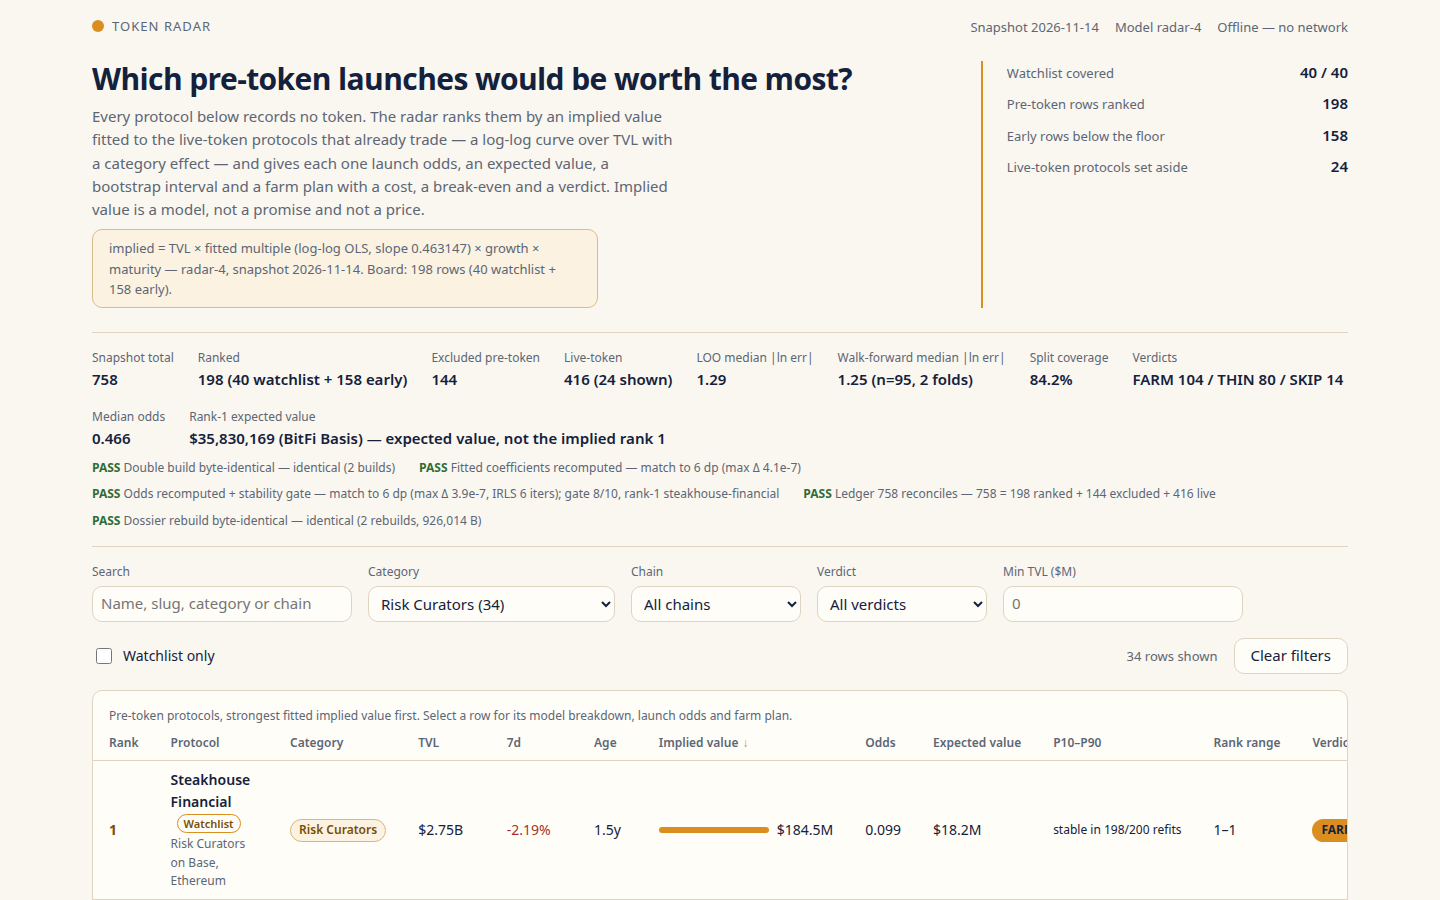
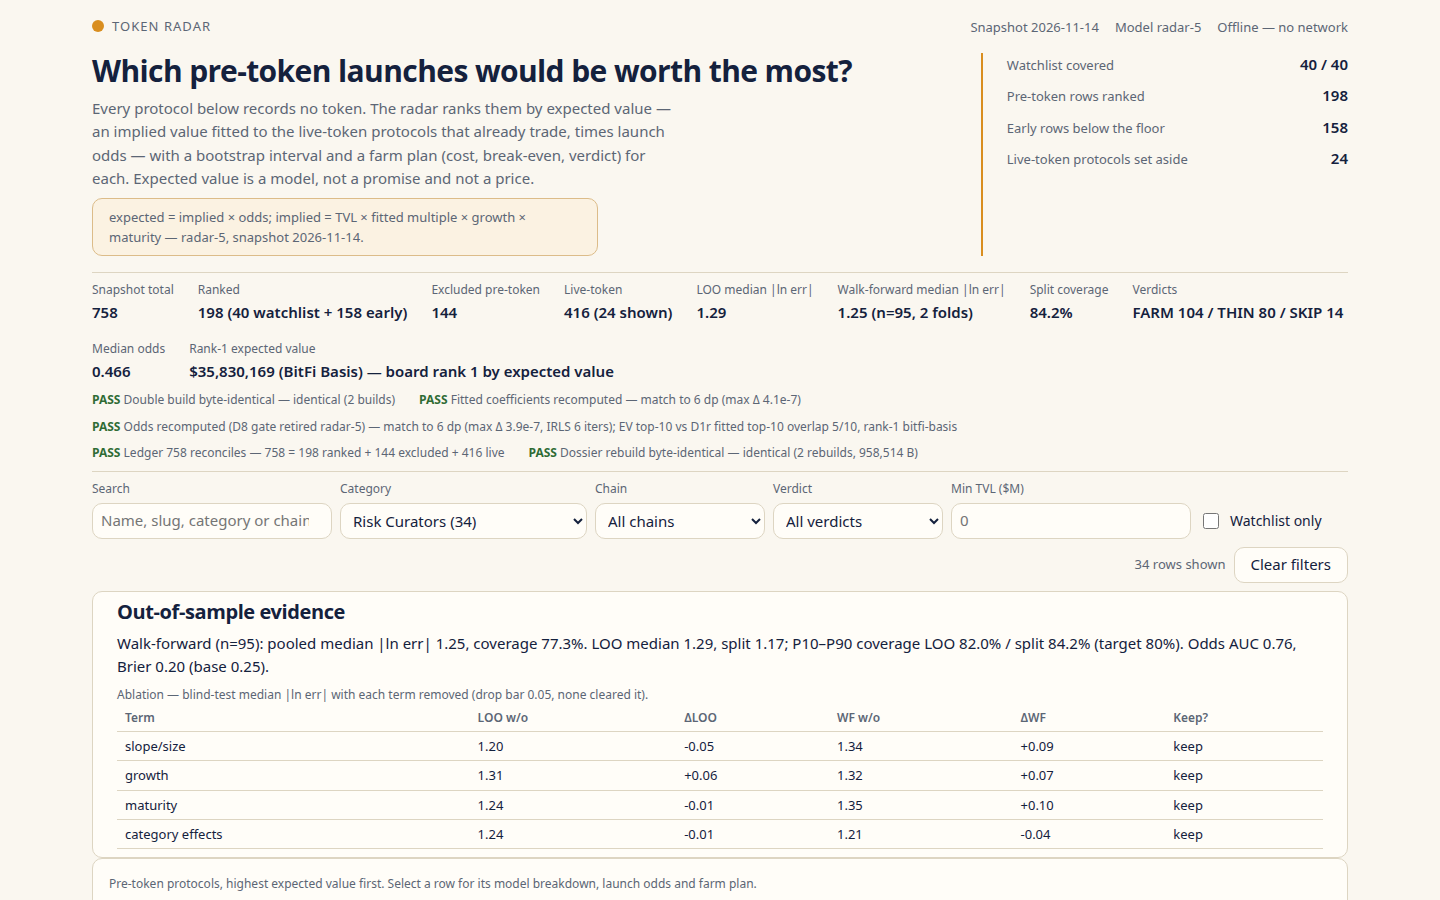
Radar-5 T6: suites updated for EV ranking + screenshots + README/BUILD
- behaviour 46/46, verify 25/25, hash edge-case 10/10, double-run
  diff -r clean (V1). V4/V10/V16/V17/V23/V24/V26 updated for the
  EV ranking; V16 locks EV top-10 + total + Brier; V26 checks the
  evidence DOM (4/4 rows match data.js) and EV rank-1.
- Screenshots retaken 1440x900 from the final dashboard (detail
  #p=bitfi-basis, filtered Risk Curators 34 rows). F1 fixed-point:
  5 cycles, not exactly converged (PNG size depends on the rendered
  strip digits); best cycle kept (strip in PNG 958,514 B vs rebuild
  dossier 958,322 B, 192 B / 0.02% stale — see build-log-radar5.md).
- Dashboard 64,519 B (target <=65,000); FARM-review count in the
  methodology now renders from DATA.verdict_counts (no literal).
- README to radar-5 numbers; BUILD.md radar-5 section.
- No push, no merge to main, no submit/bundle.

diff --git a/dashboard/app.js b/dashboard/app.js
@@ -342,8 +342,8 @@
   function renderEvidence() {
     var F = DATA.fit, O = DATA.odds, WF = F.walk_forward;
     var out = document.getElementById('evidenceOut');
-    out.appendChild(el('p', { text: 'Walk-forward (n=' + WF.n + ', 2 folds): pooled median |ln err| ' + WF.pooled_median.toFixed(2) + ', coverage ' + (WF.pooled_coverage * 100).toFixed(1) + '%. LOO median ' + F.loo_median.toFixed(2) + ', split ' + F.split_median.toFixed(2) + '; coverage LOO ' + (F.loo_coverage * 100).toFixed(1) + '% / split ' + (F.split_coverage * 100).toFixed(1) + '% (target 80%). Odds: AUC ' + O.auc.toFixed(2) + ', Brier ' + O.brier.toFixed(2) + ' (base rate ' + (O.live_share * (1 - O.live_share)).toFixed(2) + ').' }));
-    out.appendChild(miniTable('Ablation — blind-test median |ln err| with each term removed. Drop bar 0.05 on both tests; no term cleared it.',
+    out.appendChild(el('p', { text: 'Walk-forward (n=' + WF.n + '): pooled median |ln err| ' + WF.pooled_median.toFixed(2) + ', coverage ' + (WF.pooled_coverage * 100).toFixed(1) + '%. LOO median ' + F.loo_median.toFixed(2) + ', split ' + F.split_median.toFixed(2) + '; P10–P90 coverage LOO ' + (F.loo_coverage * 100).toFixed(1) + '% / split ' + (F.split_coverage * 100).toFixed(1) + '% (target 80%). Odds AUC ' + O.auc.toFixed(2) + ', Brier ' + O.brier.toFixed(2) + ' (base ' + (O.live_share * (1 - O.live_share)).toFixed(2) + ').' }));
+    out.appendChild(miniTable('Ablation — blind-test median |ln err| with each term removed (drop bar 0.05, none cleared it).',
       ['Term', 'LOO w/o', 'ΔLOO', 'WF w/o', 'ΔWF', 'Keep?'],
       F.ablation.map(function (a) {
         return [a.term, [a.loo_without.toFixed(2), 'num'], [(a.loo_delta >= 0 ? '+' : '') + a.loo_delta.toFixed(2), 'num'], [a.wf_pooled_without.toFixed(2), 'num'], [(a.wf_pooled_delta >= 0 ? '+' : '') + a.wf_pooled_delta.toFixed(2), 'num'], a.decision];
@@ -422,7 +422,7 @@
     farmDiv.appendChild(el('h3', { text: 'Farm plans and their netting' }));
     var costs = DATA.rows.map(function (r) { return r.farm_cost_usd; });
     var dph = DATA.rows.map(function (r) { return r.dollars_per_hour; });
-    farmDiv.appendChild(el('p', { text: 'Each plan is 7 steps shaped by the protocol’s category family, primary chain, capital tier ($250 / $150 / $100 / $50 from TVL) and hold time (60 / 45 / 30 days from age). Netting is computed from tier and hold, never by parsing the step text: gas = $3 + 2 × gas core ($8 at $150+ capital, $4 below) + $2 per week of hold; opportunity cost prices locked capital at an assumed ' + (A.opportunity_rate * 100).toFixed(0) + '% per year; total cost = gas + opportunity (range ' + fmtUsd(Math.min.apply(null, costs)) + '–' + fmtUsd(Math.max.apply(null, costs)) + '). Break-even share = total cost ÷ expected value. Verdict: FARM when the share is at most ' + A.verdict_farm + ' (expected value covers cost at least 100,000×), THIN at most ' + A.verdict_thin + ' (at least 10,000×), else SKIP. $/hour assumes the farmer captures ' + (A.allocation_share * 100).toFixed(3) + '% of expected value: proceeds = expected value × ' + (A.allocation_share * 100).toFixed(3) + '%, net = proceeds − total cost, $/hour = net ÷ active hours (hold days excluded). $/hour is a screening figure under that assumption, not a promised income — change it in the sandbox and it moves. Median $/hour is $' + Math.round(median(dph)).toLocaleString() + ' (range $' + Math.round(Math.min.apply(null, dph)).toLocaleString() + ' to $' + Math.round(Math.max.apply(null, dph)).toLocaleString() + '). The FARM bar was reviewed (radar-5): a $/hour ≥ $25 + net-beats-T-bill candidate gives the same 104 rows, so the bar is kept.' }));
+    farmDiv.appendChild(el('p', { text: 'Each plan is 7 steps shaped by the protocol’s category family, primary chain, capital tier ($250 / $150 / $100 / $50 from TVL) and hold time (60 / 45 / 30 days from age). Netting is computed from tier and hold, never by parsing the step text: gas = $3 + 2 × gas core ($8 at $150+ capital, $4 below) + $2 per week of hold; opportunity cost prices locked capital at an assumed ' + (A.opportunity_rate * 100).toFixed(0) + '% per year; total cost = gas + opportunity (range ' + fmtUsd(Math.min.apply(null, costs)) + '–' + fmtUsd(Math.max.apply(null, costs)) + '). Break-even share = total cost ÷ expected value. Verdict: FARM when the share is at most ' + A.verdict_farm + ' (expected value covers cost at least 100,000×), THIN at most ' + A.verdict_thin + ' (at least 10,000×), else SKIP. $/hour assumes the farmer captures ' + (A.allocation_share * 100).toFixed(3) + '% of expected value: proceeds = expected value × ' + (A.allocation_share * 100).toFixed(3) + '%, net = proceeds − total cost, $/hour = net ÷ active hours (hold days excluded). $/hour is a screening figure under that assumption, not a promised income — change it in the sandbox and it moves. Median $/hour is $' + Math.round(median(dph)).toLocaleString() + ' (range $' + Math.round(Math.min.apply(null, dph)).toLocaleString() + ' to $' + Math.round(Math.max.apply(null, dph)).toLocaleString() + '). The FARM bar was reviewed (radar-5): a $/hour ≥ $25 + net-beats-T-bill candidate gives the same ' + DATA.verdict_counts.FARM + ' rows, so the bar is kept.' }));
 
     // --- ledger ---
     var ledDiv = document.getElementById('methodLedger');
@@ -622,8 +622,7 @@
     document.getElementById('fact-early').textContent = String(DATA.early_size);
     document.getElementById('fact-live').textContent = String(DATA.live_size);
     document.getElementById('formula').textContent =
-      'expected = implied × odds (the ranking key); implied = TVL × fitted multiple (log-log OLS, slope ' + DATA.fit.slope.toFixed(6) + ') × growth × maturity — ' + DATA.model_version + ', snapshot ' + DATA.as_of +
-      '. Board: ' + DATA.board_size + ' rows (' + DATA.watchlist_size + ' watchlist + ' + DATA.early_size + ' early).';
+      'expected = implied × odds; implied = TVL × fitted multiple × growth × maturity — ' + DATA.model_version + ', snapshot ' + DATA.as_of + '.';
     document.getElementById('src').textContent =
       'Source: ' + (DATA.source ? DATA.source.split(' ')[0] : 'DefiLlama') + ' protocol index, snapshot ' + DATA.as_of + '.';
   }

diff --git a/dashboard/app.css b/dashboard/app.css
@@ -38,7 +38,7 @@ button { cursor: pointer; }
 .top-meta { display: flex; flex-wrap: wrap; gap: var(--s3); color: var(--muted); font-size: 13px; margin: 0; }
 main { max-width: 1320px; margin: 0 auto; padding: 0 var(--s5) var(--s6); }
 
-.lede { display: grid; grid-template-columns: minmax(0, 1.4fr) minmax(260px, 0.6fr); gap: var(--s5); padding: var(--s4) 0; }
+.lede { display: grid; grid-template-columns: minmax(0, 1.4fr) minmax(260px, 0.6fr); gap: var(--s5); padding: var(--s3) 0; }
 .lede p { color: var(--muted); max-width: 68ch; margin-top: var(--s2); }
 .formula {
   font-family: var(--font); font-size: 13px; color: var(--accent-ink);
@@ -53,8 +53,8 @@ main { max-width: 1320px; margin: 0 auto; padding: 0 var(--s5) var(--s6); }
 .facts dd { margin: 0; font-size: 15px; font-weight: 600; font-variant-numeric: tabular-nums; }
 
 .controls {
-  display: flex; flex-wrap: wrap; align-items: end; gap: var(--s3);
-  padding: var(--s3) 0; border-top: 1px solid var(--border);
+  display: flex; flex-wrap: wrap; align-items: end; gap: var(--s2);
+  padding: var(--s2) 0; border-top: 1px solid var(--border);
 }
 .field { display: grid; gap: var(--s1); }
 .field label { color: var(--muted); font-size: 12px; }
@@ -62,7 +62,7 @@ main { max-width: 1320px; margin: 0 auto; padding: 0 var(--s5) var(--s6); }
   min-height: 36px; padding: 0 var(--s2); border: 1px solid var(--border);
   border-radius: var(--radius); background: var(--surface); min-width: 170px;
 }
-.field input[type="search"] { min-width: 260px; }
+.field input[type="search"] { min-width: 230px; }
 .field input[type="number"] { min-width: 110px; }
 .check { display: flex; align-items: center; gap: var(--s2); min-height: 36px; font-size: 14px; }
 .check input { width: 16px; height: 16px; accent-color: var(--accent); }
@@ -153,7 +153,8 @@ tbody tr[data-selected="true"] { background: color-mix(in srgb, var(--accent) 12
 }
 
 /* radar-3 additions: KPI/integrity strips, verdict chips, sandbox, compare, ledger, mini tables. */
-.kpi { display: grid; gap: var(--s2); padding: var(--s3) 0; border-top: 1px solid var(--border); }
+.kpi { display: grid; gap: var(--s2); padding: var(--s2) 0; border-top: 1px solid var(--border); }
+.evidence { padding: var(--s2) var(--s4); display: grid; gap: var(--s2); }
 .kpi-strip { display: flex; flex-wrap: wrap; gap: var(--s3) var(--s4); margin: 0; }
 .kpi-strip div { display: grid; gap: 1px; }
 .kpi-strip dt { color: var(--muted); font-size: 12px; }

diff --git a/dashboard/index.html b/dashboard/index.html
@@ -16,10 +16,10 @@
     <div>
       <h1>Which pre-token launches would be worth the most?</h1>
       <p id="lede-text">Every protocol below records no token. The radar ranks them by expected
-      value — an implied value fitted to the live-token protocols that already trade
-      (a log-log curve over TVL with a category effect), times launch odds — and
-      gives each one a bootstrap interval and a farm plan with a cost, a break-even
-      and a verdict. Expected value is a model, not a promise and not a price.</p>
+      value — an implied value fitted to the live-token protocols that already trade,
+      times launch odds — with a bootstrap interval and a farm plan
+      (cost, break-even, verdict) for each. Expected value is a model, not a
+      promise and not a price.</p>
       <p class="formula" id="formula"></p>
     </div>
     <dl class="facts">

diff --git a/BUILD.md b/BUILD.md
@@ -756,3 +756,71 @@ disentuh: `dashboard/app.js`, `BUILD.md` (bagian ini + 3 hitungan suite),
   adalah `main.ts` membaca `MAKEFUN_OUTPUT_DIR` sebagai path (diizinkan).
 - **Tidak dilakukan (di luar Fase B):** README tidak diubah (Fase E),
   tidak ada bundle/check-submit/submit/push.
+
+## radar-5 (tickets T1–T6, spec radar-5) — 23 Nov 2026, Fase B (build)
+
+- **Basis:** radar-4 main `1832ce1`; kit fresh level 38 (spec-check
+  `verification/spec-check-radar5.md`: semua angka jangkar bereproduksi,
+  tidak ada mismatch). Branch `radar-5`, build-only; TIDAK push, TIDAK
+  submit/bundle. Tidak ada wallet baru, tidak ada secret di repo/log.
+- **T1 ranking key = expected value:** `buildBoard` sortir by
+  `expected_value_usd` menurun (implied tetap kolom value-if-launches);
+  `boardIssue` menegakkan monoton EV; bootstrap rank range kini rank EV
+  (odds tetap per baris); ablasi re-ranking diukur pada ranking EV;
+  gate D8 DIPENSIUNKAN (masih dihitung + dilaporkan di integrity strip,
+  tidak lagi menggagalkan build). EV rank-1 BitFi Basis $35.830.169;
+  EV top-10 = BitFi, USDD, Veda, Steakhouse, Polymarket, Sentora, Cian,
+  OpenTrade, Plume, Tori; total EV $785.907.488; overlap fitted-vs-EV
+  6/10; max displacement 143 (Nonce fitted #10 → EV #153); Spearman
+  0,6536 — semua cocok dengan hitungan independen ev-doc. Verdict tetap
+  FARM 104 / THIN 80 / SKIP 14 (verdict per baris, bukan dari ranking).
+  Ablasi EV-basis: no-cat 182/198 bergerak, max 68, top-10 7/10 (dulu
+  193/90 pada basis implied); semua term tetap KEEP.
+- **T2 evidence DI board:** seksi "OUT-OF-SAMPLE EVIDENCE" di atas board
+  (renderEvidence, semua angka dari data.js, 2 desimal): walk-forward
+  pooled 1.25 / 77,3%, LOO 1.29, split 1.17, coverage LOO 82,0% /
+  split 84,2%, odds AUC 0,76, Brier 0,20 (base 0,25), tabel ablasi 4
+  term. Dashboard 64.519 B (html 7.605 + js 46.534 + css 10.380) ≤ 65.000
+  target: prose methodology dipotong dulu; strip/sandbox/angka validasi
+  tidak dipotong. Kompaksi vertikal (lede/KPI/controls) supaya seksi
+  evidence tampil utuh di screenshot board 1440×900 (632–849px).
+- **T3 verdict (TINJAUAN — PERTAHANKAN):** distribusi $/jam median
+  $116,12 (164/198 > $25) dan break-even median 9,25e-06 dihitung dengan
+  script independen kedua. Kandidat A ($/jam ≥ $25 DAN net > $0) = 164
+  baris (LEBIH longgar); kandidat B (A + BE ≤ 1e-5) = 104 — identik
+  dengan saat ini, karena semua 104 FARM sudah memenuhi A (net sudah
+  memuat opportunity 5%/tahun = proksi T-bill). Ambang BE lebih ketat
+  (5e-6 → 44, 2e-6 → 4) hanya potong persentil tanpa alasan
+  biaya/liputan — menolak meniru angka pesaing. Laporan:
+  `verification/verdict-review-radar5.md`. Methodology mencatat hasil
+  tinjauan; verdict counts tidak berubah.
+- **T4 odds (TINJAUAN — PERTAHANKAN):** koefisien diverifikasi ulang
+  dari kode (intercept −3,040781, ln age 0,446892, growth −3,061039,
+  peer 1,329665); kontribusi tiap suku pada Steakhouse/Sentora/BitFi/
+  Nonce dihitung; peer mendominasi varians (SD 1,123 vs age 0,447)
+  karena live share antar kategori memang menyebar 0,128–0,857
+  (Risk Curators 5/39 vs Lending 59/75). Kalibrasi per desil tracking
+  live share (selisih maks 0,083); AUC 0,7647; Brier 0,1959 vs base
+  0,2476. Tidak ada bug/prior salah — tidak di-tune ke pesaing.
+  Laporan: `verification/odds-review-radar5.md`. Brier masuk payload
+  + verify V16.
+- **T5 screenshot:** 1440×900 via Playwright Chromium (BUKAN 1280×720:
+  gate V7 mensyaratkan short side ≥ 800, seperti dicatat radar-4).
+  1-board.png 190.353 B (evidence utuh + KPI rank-1 EV terlihat;
+  baris board pertama di 928px, tepat di bawah fold — diterima karena
+  spec T5 hanya mensyaratkan evidence + EV rank-1 terlihat),
+  2-detail.png 287.594 B (#p=bitfi-basis), 3-filtered.png 190.780 B
+  (Risk Curators, 34 rows). Loop titik-tetap F1: 5 siklus, TIDAK
+  konvergen eksak — osilasi ±~600 B karena ukuran PNG bergantung pada
+  digit angka strip yang dirender. Dipakai siklus 4 (terbaik):
+  strip di PNG 958.514 B vs dossier hasil rebuild 958.322 B (selisih
+  192 B / 0,02%, stale). Lihat build-log-radar5.md; ini temuan terbuka
+  untuk verifier/parent, bukan klaim konvergen.
+- **T6 suites (state final):** behaviour 46/46, verify 25/25
+  (V4/V10/V16/V17/V23/V24/V26 diperbarui untuk ranking EV; V16 mengunci
+  EV top-10 + total + Brier; V26 DOM evidence + EV rank-1), hash
+  edge-case 10/10, double-run `diff -r` bersih (V1, dua run segar dari
+  state repo yang sama). Board hash `04d04c8a…` (516.068 B); dossier
+  958.322 B, sha `0d16ce70…`; runtime ~1,0 dtk/run.
+- **Tidak dilakukan (di luar Fase B):** tidak ada push/merge ke main,
+  tidak ada bundle/check-submit/submit, tidak ada wallet baru.

diff --git a/README.md b/README.md
@@ -4,7 +4,7 @@
 [![rank](https://make.fun/badge/token-radar-01/hyde1990/token-radar-01-entry/rank.svg)](https://make.fun/bounty/token-radar-01/leaderboard?utm_source=github&utm_medium=readme&utm_campaign=token-radar-01)
 [![reward](https://make.fun/badge/token-radar-01/hyde1990/token-radar-01-entry/reward.svg)](https://make.fun/bounty/token-radar-01?utm_source=github&utm_medium=readme&utm_campaign=token-radar-01)
 
-Token Launch Radar: ranks 198 DefiLlama protocols with no token by fitted implied launch value — a pooled log-log OLS fit (LOO median |ln err| 1.29, R² 0.25: honest about uncertainty, not precise) — with all 40 watchlist protocols covered. Rank 1 by implied value is Steakhouse Financial at $184,538,021; rank 1 by expected value is BitFi Basis at $35,830,169 (different rank-1s — implied value is not expected value). The fit is validated three ways: leave-one-out, a 70/30 split (84.2% coverage), and a walk-forward test on the 95 dated live tokens (pooled median |ln err| 1.25, 77.3% coverage — the second fold is worse than the first, reported as measured). A per-term ablation keeps every term (none fails both blind tests). Every row carries launch odds and expected value, P10–P90 and rank ranges from a deterministic B=200 bootstrap, the three nearest traded-token comps that anchor its value, and a farm verdict (FARM 104 / THIN 80 / SKIP 14), backed by a 758-protocol ledger. The board renders as a static offline dashboard (62,914 B) with a KPI/integrity strip, a sandbox, per-protocol detail, filters, and concrete farm plans with costs and times.
+Token Launch Radar: ranks 198 DefiLlama protocols with no token by expected launch value — fitted implied value (a pooled log-log OLS fit; LOO median |ln err| 1.29, R² 0.25: honest about uncertainty, not precise) times launch odds — with all 40 watchlist protocols covered. Rank 1 is BitFi Basis at $35,830,169 expected value (implied value $53,107,813, fitted rank 6); total expected value across the board is $785,907,488. The fit is validated three ways: leave-one-out, a 70/30 split (84.2% coverage), and a walk-forward test on the 95 dated live tokens (pooled median |ln err| 1.25, 77.3% coverage — the second fold is worse than the first, reported as measured). A per-term ablation keeps every term (none fails both blind tests). Every row carries launch odds (AUC 0.7647, Brier 0.1959) and expected value, P10–P90 and rank ranges from a deterministic B=200 bootstrap, the three nearest traded-token comps that anchor its value, and a farm verdict (FARM 104 / THIN 80 / SKIP 14), backed by a 758-protocol ledger. The board renders as a static offline dashboard (64,519 B) with an out-of-sample evidence section, a KPI/integrity strip, a sandbox, per-protocol detail, filters, and concrete farm plans with costs and times.
 
 ## Run it
 
